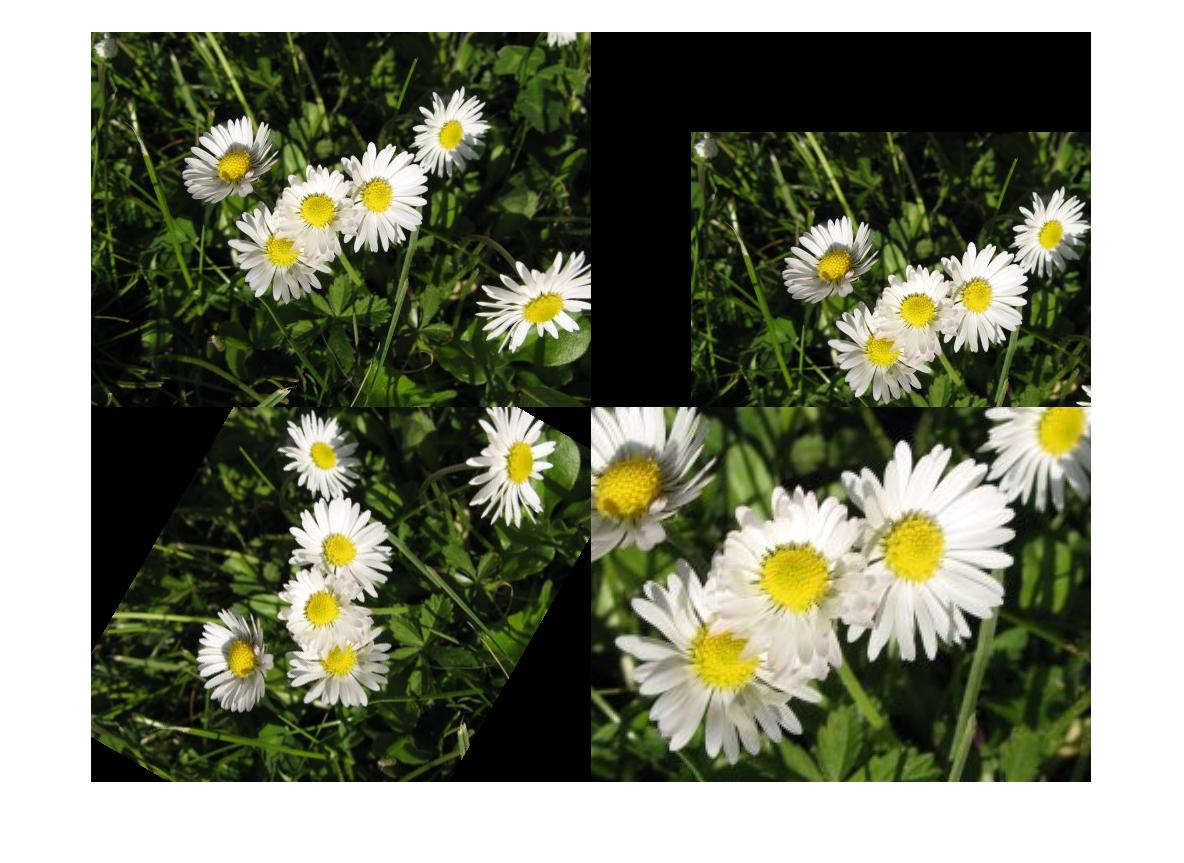
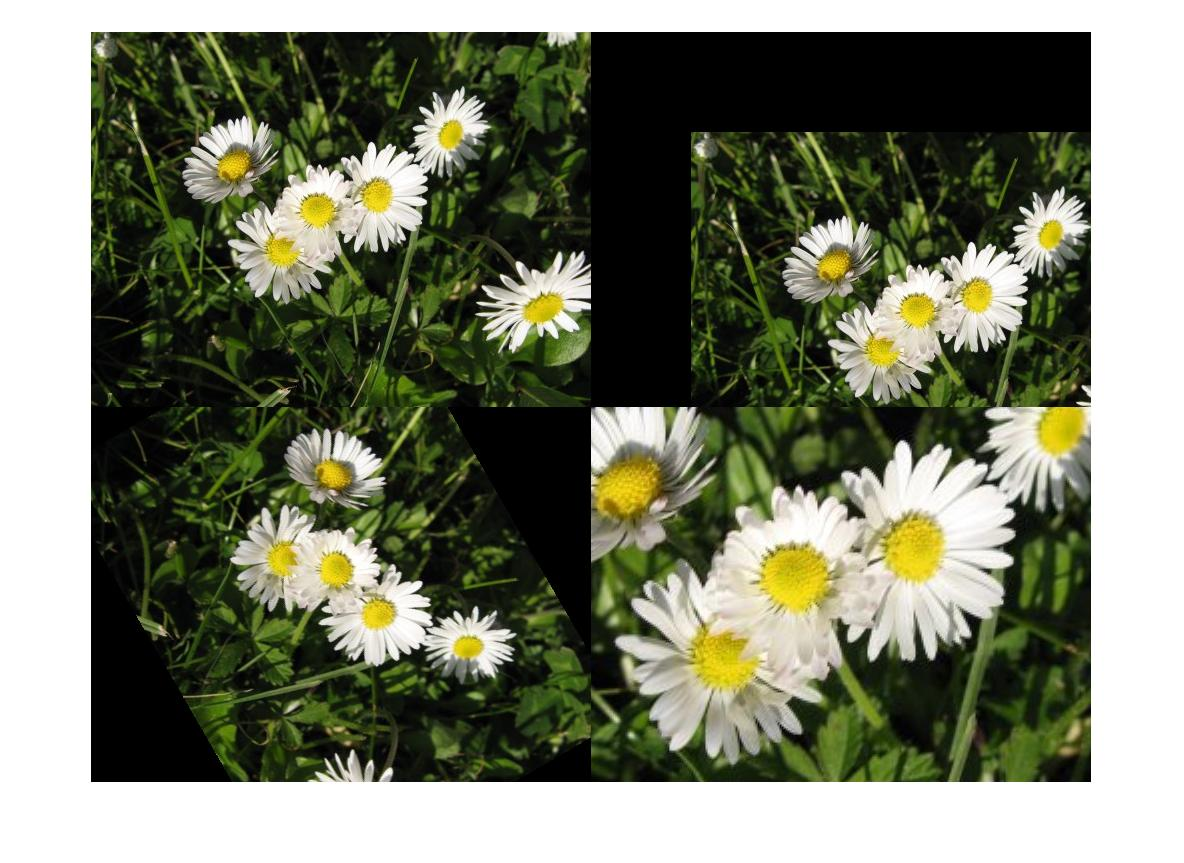
modified

Changed region(s): [[0.0625, 0.4519, 0.5, 0.9038]]

diff --git a/Lab01/rotation.m b/Lab01/rotation.m
@@ -4,8 +4,8 @@
 
 function [transfImg, RGB] = rotation(inputImg, theta)
     %Assemble the trasformation matrix
-    rot=[cos(theta)    -sin(theta)   0;
-         sin(theta)     cos(theta)   0;
+    rot=[cos(theta)     sin(theta)   0;
+         -sin(theta)     cos(theta)   0;
               0              0       1];
 
     %Make the matrix an affine2d object

diff --git a/Lab01/Lab01.m b/Lab01/Lab01.m
@@ -38,7 +38,6 @@ PrintRGB(ImgSheared, RGBSheared, 'Sheared Image');
 PrintRGB(ImgScaled, RGBScaled, 'Scaled ');
 %figure, imagesc(ImgScaled), title('Scaled Image');
 
-
 %% Show the comparison between transformation
 pairOfImages = [  inputImg, ImgTranslated ;
                 ImgRotated, ImgScaled   ]; 
